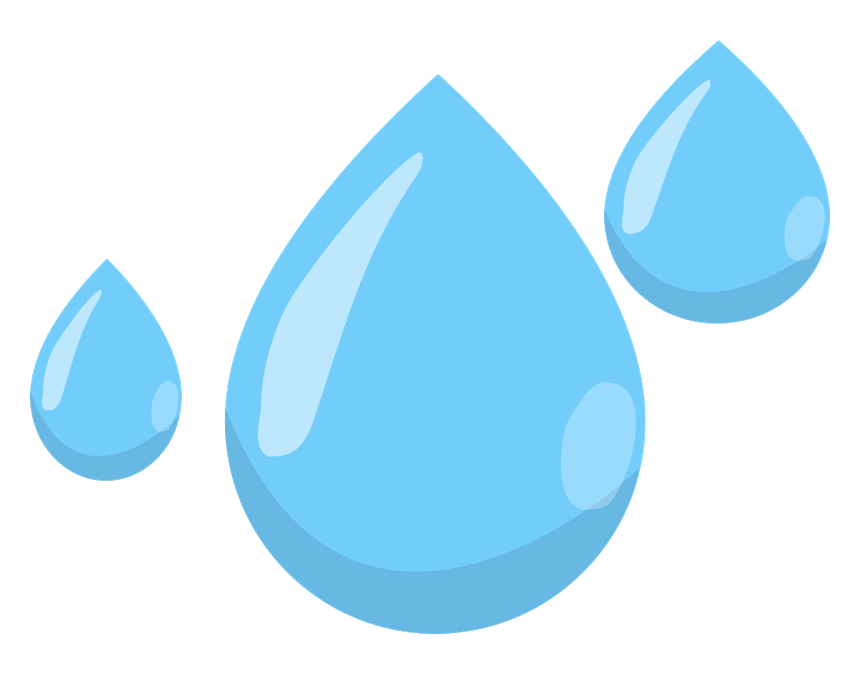
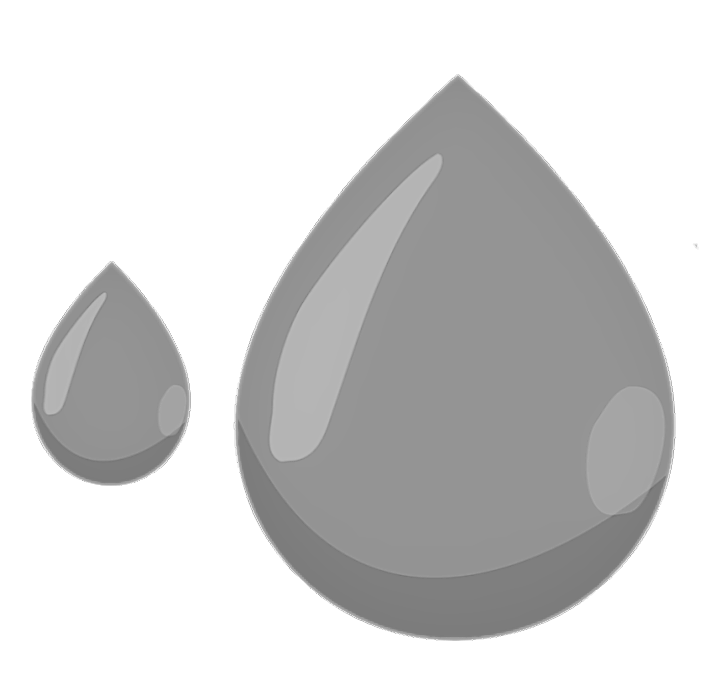
Arreglo de colores en íconos de características y ajuste de padding

diff --git a/index.css b/index.css
@@ -174,8 +174,6 @@ html{
 }
 
 .text{
-    margin: 0 20px;
-
     font-size: var(--m);
     font-weight: 300;
     color: var(--text-color);
@@ -184,13 +182,13 @@ html{
 
 #characteristics-container{
     width: 100vw;
-    padding: 32px 16px;
+    padding: 32px 8px;
 
     background-color: var(--secondary);
 
     display: flex;
     flex-wrap: wrap;
-    justify-content: space-evenly;
+    justify-content: center;
     align-items: center;
     gap: 32px;
 
@@ -198,10 +196,9 @@ html{
 }
 
 .characteristic-box{
-    width: 150px;
+    width: 200px;
 
     display: flex;
-    flex-direction: column;
     align-items: center;
     gap: 12px;
 }
@@ -209,14 +206,16 @@ html{
 .characteristic-box > img{
     width: 50px;
     height: 40px;
-    
+}
+
+.characteristic-box:nth-child(2) > img, .characteristic-box:nth-child(3) > img{
     filter: contrast(0);
 }
 
 .characteristic-box > p{
     font-size: var(--xs);
     color: var(--text-color);
-    text-align: center;
+    text-align: start;
 }
 
 #technical-tests-container{
@@ -228,7 +227,7 @@ html{
     align-items: center;
     gap: 4px;
 
-    background-color: var(--secondary);
+    background-color: rgba(241, 241, 241);
 
     border-bottom: 1px solid rgba(128, 128, 128, 0.3);
 }
@@ -246,9 +245,30 @@ html{
 }
 
 #technical-tests-container > p:first-of-type{
-    margin: 24px;
+    margin: 24px 0px;
     font-style: italic;
     text-align: start;
+}
+
+#more-info{
+    align-self: start;
+    margin-top: 28px;
+    padding: 12px;
+
+    background-color: var(--secondary);
+    border: 1px solid var(--primary);
+    border-radius: 20px;
+}
+
+#more-info > a{
+    font-size: var(--xs);
+    font-weight: bolder;
+    color: var(--primary);
+    text-decoration: none;
+}
+
+#more-info > a:visited{
+    color: var(--primary);
 }
 
 #GBC-container{

diff --git a/index.html b/index.html
@@ -102,6 +102,7 @@
             </p>
             <p class="text">Dr. Bernardo Tutikian.</p>
             <p class="text">Posdoctorado en Ingeniería.</p>
+            <button id="more-info"><a href="/html/pruebas.html">SABER MÁS</a></button>
         </section>
 
         <section id="GBC-container">
@@ -118,6 +119,10 @@
                     en la categoría nuevos materiales, promovido por la Cámara Brasilera de la Industria de la Construcción.
                 </p>
             </div>
+        </section>
+
+        <section>
+            
         </section>
     </main>
 
